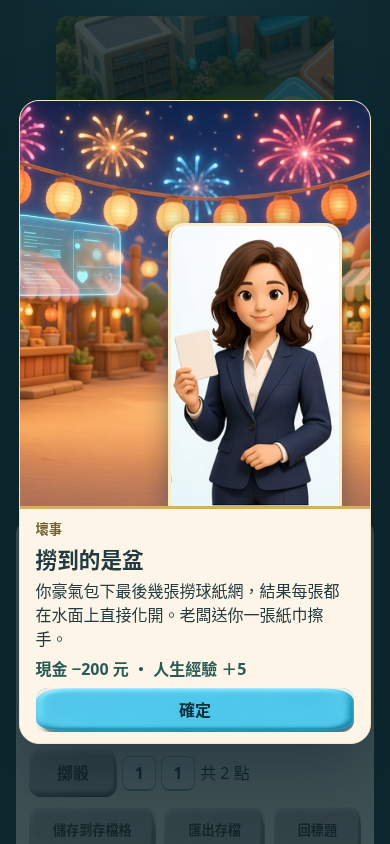
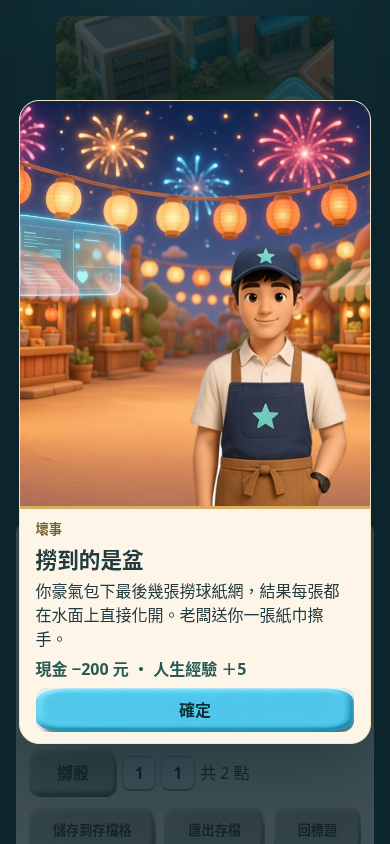
Composite transparent NPC portraits into event scenes

Changed region(s): [[0.4, 0.2464, 0.9231, 0.6161]]

diff --git a/tests/browser/events.spec.ts b/tests/browser/events.spec.ts
@@ -62,6 +62,8 @@ for (const scene of [
     random: [0.8, 0, 0, 0, 0],
     result: "智力 ＋10",
     name: "good-landscape",
+    background: "classroom",
+    npc: "teacher",
     width: 1080,
     height: 664,
   },
@@ -71,6 +73,8 @@ for (const scene of [
     random: [0.8, 0.9, 0.36, 0],
     result: "現金 −200 元",
     name: "bad-portrait",
+    background: "festival",
+    npc: "clerk",
     width: 390,
     height: 844,
   },
@@ -94,29 +98,59 @@ for (const scene of [
     ).toBeVisible();
     await expect(dialog).toContainText(scene.label);
     await expect(dialog).toContainText(scene.result);
-    await expect(dialog.locator("svg image")).toHaveAttribute(
-      "href",
-      /npc_final|deities_bad_final/,
-    );
     if (scene.label === "神祇登場") {
-      await expect(dialog.locator("svg image")).toHaveAttribute(
+      const sprite = dialog.locator("svg image");
+      await expect(sprite).toHaveAttribute("href", /deities_bad_final/);
+      await expect(sprite).toHaveAttribute(
         "clip-path",
         "url(#empty-bag-outline)",
       );
+      await sprite.evaluate(async (element) => {
+        const image = new Image();
+        image.src = element.getAttribute("href")!;
+        await image.decode();
+      });
     } else {
       const background = dialog.locator(".event-background");
       await expect(background).toHaveAttribute(
         "src",
-        /event_(classroom|festival)_final/,
+        new RegExp(`event_${scene.background}_final`),
       );
-      await background.evaluate((img: HTMLImageElement) => img.decode());
+      await background.evaluate((image: HTMLImageElement) => image.decode());
+      const npc = dialog.locator(".event-npc");
+      await expect(npc).toHaveAttribute(
+        "src",
+        new RegExp(`/${scene.npc}[^/]*\\.webp$`),
+      );
+      const transparency = await npc.evaluate(
+        async (image: HTMLImageElement) => {
+          await image.decode();
+          const canvas = document.createElement("canvas");
+          canvas.width = image.naturalWidth;
+          canvas.height = image.naturalHeight;
+          const context = canvas.getContext("2d")!;
+          context.drawImage(image, 0, 0);
+          const pixels = context.getImageData(
+            0,
+            0,
+            canvas.width,
+            canvas.height,
+          ).data;
+          return [
+            pixels[3],
+            pixels[(canvas.width - 1) * 4 + 3],
+            pixels[
+              (Math.floor(canvas.height / 2) * canvas.width +
+                Math.floor(canvas.width / 2)) *
+                4 +
+                3
+            ],
+          ];
+        },
+      );
+      expect(transparency).toEqual([0, 0, 255]);
     }
-    await dialog.locator("svg image").evaluate(async (sprite) => {
-      const image = new Image();
-      image.src = sprite.getAttribute("href")!;
-      await image.decode();
-      await new Promise(requestAnimationFrame);
-    });
+    await page.evaluate(() => new Promise(requestAnimationFrame));
     const confirm = dialog.getByRole("button", { name: "確定" });
     await expect(confirm).toBeInViewport();
     expect((await confirm.boundingBox())!.height).toBeGreaterThanOrEqual(44);

diff --git a/src/event-view.ts b/src/event-view.ts
@@ -1,4 +1,3 @@
-import npcSheet from "../art/npc_final.jpg";
 import goodSheet from "../art/deities_good_final.jpg";
 import badSheet from "../art/deities_bad_final.jpg";
 import {
@@ -17,27 +16,17 @@ const scenes = import.meta.glob<string>("../art/event_*_final.jpg", {
   query: "?url",
 });
 
-const npcRows = [
-  {
-    ids: ["teacher", "proctor", "senior-boy", "senior-girl", "host", "nurse"],
-    edges: [52, 249, 444, 643, 833, 1044, 1235],
-    y: 30,
-    height: 315,
-  },
-  {
-    ids: [
-      "classmate-a",
-      "classmate-b",
-      "emcee",
-      "clerk",
-      "janitor",
-      "passerby",
-    ],
-    edges: [54, 245, 436, 640, 825, 1049, 1258],
-    y: 354,
-    height: 340,
-  },
-];
+// Individual alpha-matted portraits from art/npc_final.jpg.
+const npcPortraits = import.meta.glob<string>("./event-art/npc/*.webp", {
+  eager: true,
+  import: "default",
+  query: "?url",
+});
+
+const npcByRole: Record<string, string> = {
+  librarian: "teacher",
+  vendor: "clerk",
+};
 
 function sheetCrop(
   url: string,
@@ -57,13 +46,6 @@ function sheetCrop(
   return `<svg class="event-portrait" viewBox="${x} ${y} ${width} ${height}" aria-hidden="true">
     ${outline}<image href="${url}" width="1280" height="720"${shadowless ? ' clip-path="url(#empty-bag-outline)"' : ""}/>
   </svg>`;
-}
-
-function npcPortrait(id: string) {
-  const row = npcRows.find(({ ids }) => ids.includes(id))!;
-  const index = row.ids.indexOf(id);
-  const x = row.edges[index];
-  return sheetCrop(npcSheet, x, row.y, row.edges[index + 1] - x, row.height);
 }
 
 function deityPortrait(id: DeityId) {
@@ -115,7 +97,9 @@ export function eventPresentation(outcome: EventOutcome) {
 
   const { story } = outcome;
   const background = scenes[`../art/event_${story.scene}_final.jpg`];
-  const art = `<img class="event-background" src="${background}" alt="">${npcPortrait(story.npc)}`;
+  const npc =
+    npcPortraits[`./event-art/npc/${npcByRole[story.npc] ?? story.npc}.webp`];
+  const art = `<img class="event-background" src="${background}" alt=""><img class="event-npc" src="${npc}" alt="">`;
   if (outcome.kind === "protected") {
     return {
       tone: "scene",

diff --git a/src/event-view.css b/src/event-view.css
@@ -40,13 +40,15 @@
   height: 88%;
   max-width: 74%;
 }
-.event-stage[data-tone="scene"] .event-portrait {
-  height: 70%;
-  margin-right: clamp(1rem, 8%, 5rem);
-  border: 3px solid #f7edce;
-  border-bottom: 0;
-  border-radius: 1rem 1rem 0 0;
-  box-shadow: 0 5px 25px #102e3c75;
+.event-npc {
+  position: absolute;
+  right: clamp(1rem, 9%, 5rem);
+  bottom: -3%;
+  height: 74%;
+  width: auto;
+  max-width: 52%;
+  object-fit: contain;
+  object-position: right bottom;
 }
 .event-stage:not([data-tone="scene"]) .event-portrait {
   justify-self: center;
@@ -91,6 +93,10 @@
 @media (orientation: portrait) {
   .event-stage {
     height: clamp(150px, 48dvh, 430px);
+  }
+  .event-npc {
+    right: 6%;
+    height: 68%;
   }
   .event-copy .action {
     flex: 1;
